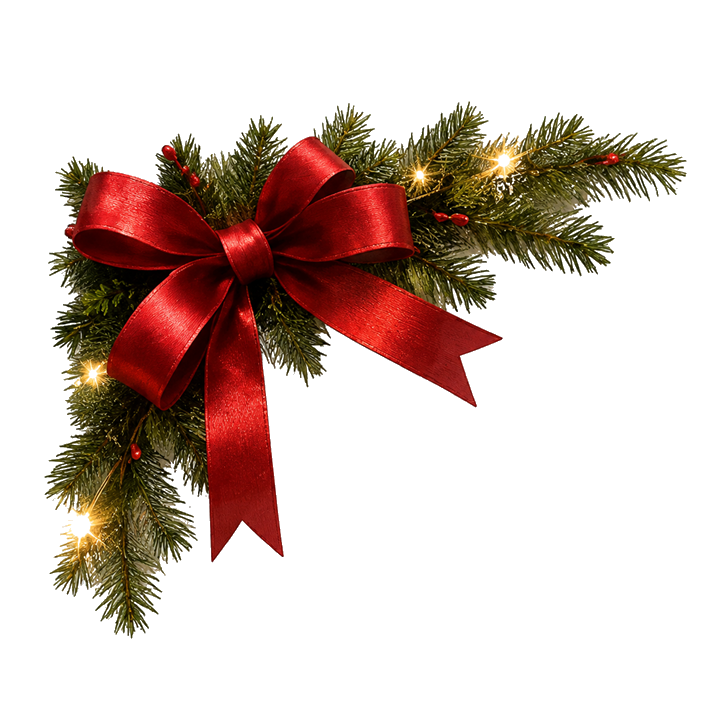
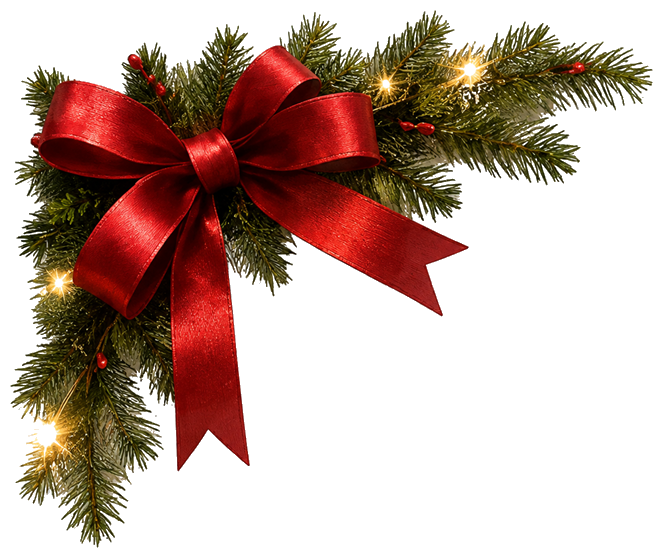
Align hero corner ribbons

diff --git a/styles.css b/styles.css
@@ -316,11 +316,11 @@ h2,
 .hero::before {
   content: "";
   position: absolute;
-  left: -66px;
-  top: -16px;
+  left: -22px;
+  top: 0;
   z-index: 1;
-  width: 250px;
-  height: 250px;
+  width: 230px;
+  height: 194px;
   pointer-events: none;
   background: url("assets/images/Cornerlefttop-clean.png") center/contain no-repeat;
   filter: drop-shadow(0 14px 20px rgba(31, 27, 22, 0.18));
@@ -330,11 +330,11 @@ h2,
 .hero::after {
   content: "";
   position: absolute;
-  right: -66px;
-  top: -16px;
+  right: -22px;
+  top: 0;
   z-index: 1;
-  width: 250px;
-  height: 250px;
+  width: 230px;
+  height: 194px;
   pointer-events: none;
   background: url("assets/images/Cornerlefttop-clean.png") center/contain no-repeat;
   filter: drop-shadow(0 14px 20px rgba(31, 27, 22, 0.18));
@@ -1659,16 +1659,16 @@ fieldset {
   }
 
   .hero::before {
-    left: -70px;
-    top: -18px;
-    transform: scale(0.72) rotate(-2deg);
+    left: -26px;
+    top: 0;
+    transform: scale(0.78) rotate(-2deg);
     transform-origin: top left;
   }
 
   .hero::after {
-    right: -70px;
-    top: -18px;
-    transform: scaleX(-1) scale(0.72) rotate(-2deg);
+    right: -26px;
+    top: 0;
+    transform: scaleX(-1) scale(0.78) rotate(-2deg);
     transform-origin: top right;
   }
 
@@ -1744,15 +1744,15 @@ fieldset {
   }
 
   .hero::before {
-    left: -78px;
-    top: -14px;
-    transform: scale(0.5) rotate(-2deg);
+    left: -42px;
+    top: 0;
+    transform: scale(0.56) rotate(-2deg);
   }
 
   .hero::after {
-    right: -78px;
-    top: -14px;
-    transform: scaleX(-1) scale(0.5) rotate(-2deg);
+    right: -42px;
+    top: 0;
+    transform: scaleX(-1) scale(0.56) rotate(-2deg);
   }
 
   .hero-title-divider {
